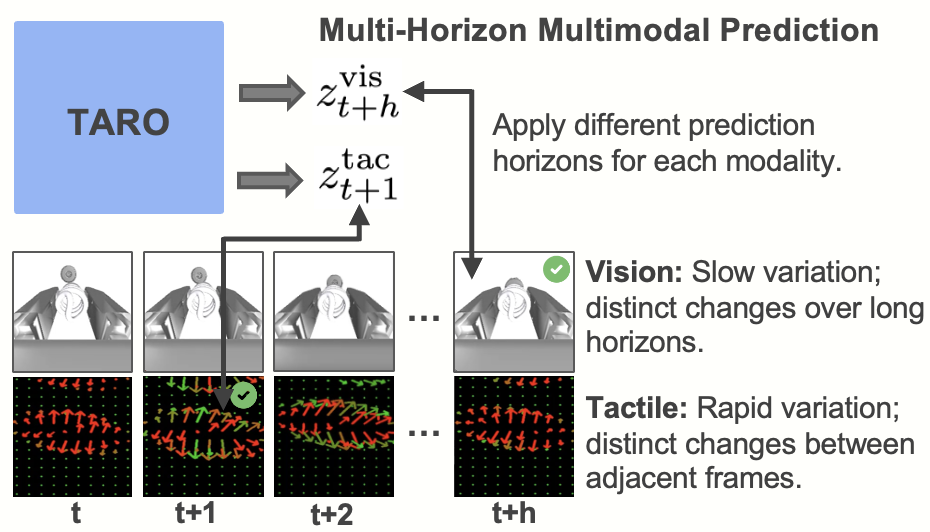
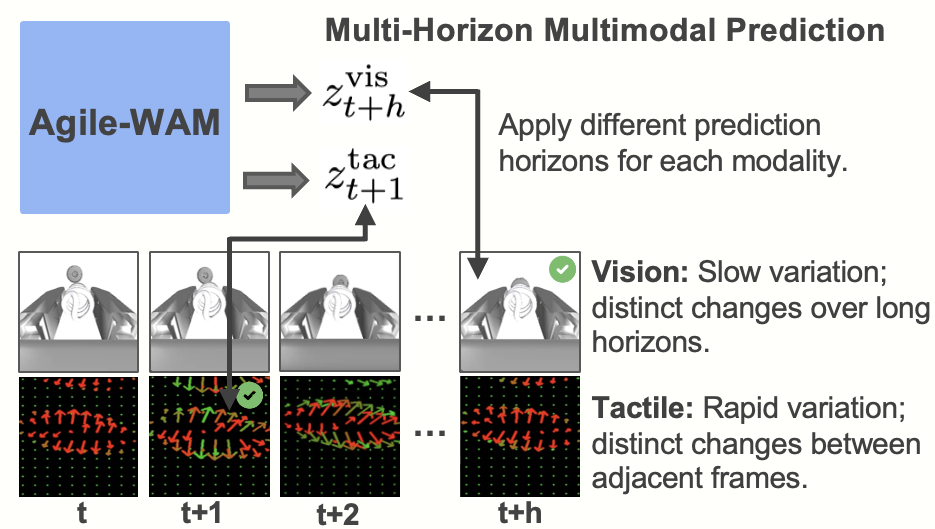
Rename project to Agile-WAM and update figures

Changed region(s): [[0.0, 0.0302, 0.9978, 0.9981], [0.343, 0.0302, 0.9667, 0.0907]]

diff --git a/anonymous/index.html b/anonymous/index.html
@@ -4,10 +4,10 @@
 <head>
   <meta charset="utf-8">
   <meta name="robots" content="noindex, nofollow, noarchive, nosnippet">
-  <meta name="description" content="TARO: An Agile Tactile World Action Model for Contact-Rich Robot Control.">
-  <meta name="keywords" content="TARO, tactile world action model, visuotactile, robot learning">
+  <meta name="description" content="Agile-WAM: An Agile Tactile World Action Model for Contact-Rich Robot Control.">
+  <meta name="keywords" content="Agile-WAM, tactile world action model, visuotactile, robot learning">
   <meta name="viewport" content="width=device-width, initial-scale=1">
-  <title>TARO: An Agile Tactile World Action Model for Contact-Rich Robot Control</title>
+  <title>Agile-WAM: An Agile Tactile World Action Model for Contact-Rich Robot Control</title>
 
   <link href="https://fonts.googleapis.com/css?family=Google+Sans|Noto+Sans|Castoro" rel="stylesheet">
   <link rel="stylesheet" href="../static/css/bulma.min.css">
@@ -22,8 +22,7 @@
         <div class="columns is-centered">
           <div class="column has-text-centered">
             <h1 class="title is-1 publication-title">
-              <span class="title-brand"><img class="title-brand-icon"
-                   src="../static/images/taro-icon-svg-download-png-2378925.webp" alt="">TARO:</span>
+              <span class="title-brand">Agile-WAM:</span>
               An Agile Tactile World Action Model for Contact-Rich Robot Control
             </h1>
 
@@ -94,19 +93,19 @@
               observations, but contact-rich manipulation requires physical information that vision alone
               cannot reliably capture. Recent tactile WAMs often rely on large pretrained generative
               backbones, which limit their inference efficiency and flexible deployment. To address this
-              limitation, we present <span class="taro-name">TARO</span>, an agile
-              <u>ta</u>ctile Wo<u>r</u>ld Action M<u>o</u>del for contact-rich robot control.
-              <span class="taro-name">TARO</span> encodes visual and tactile observations into a shared latent
-              that serves as the source of a compact conditioning-free flow-matching process, which jointly
-              generates latent representations of an action chunk and future visual and tactile observations.
+              limitation, we present <span class="taro-name">agile-WAM</span>, an agile tactile World Action
+              Model for contact-rich robot control. <span class="taro-name">agile-WAM</span> encodes visual and
+              tactile observations into a shared latent that serves as the source of a direct
+              vision-tactile-to-action flow-matching process, which can jointly generate latent
+              representations of an action chunk and future visual and tactile latent.
               A key observation is that vision and tactile signals evolve at inherently different timescales:
               adjacent visual frames are often highly similar, whereas tactile
               signals can change abruptly upon contact. We therefore introduce multi-horizon multimodal
-              prediction in <span class="taro-name">TARO</span>, which provides supervision for visual latent
+              prediction in <span class="taro-name">agile-WAM</span>, which provides supervision for visual latent
               at a larger temporal offset while predicting the adjacent tactile latent to preserve fine-grained
               contact dynamics.
               Across nine simulated and five real-world contact-rich manipulation tasks,
-              <span class="taro-name">TARO</span> demonstrates strong and robust control performance, achieving
+              <span class="taro-name">agile-WAM</span> demonstrates strong and robust control performance, achieving
               a 6.8% relative improvement in simulation success rate over the strongest baseline while
               supporting a control frequency of 96.6&nbsp;Hz. These results demonstrate that multimodal WAM
               can be achieved with an agile architecture suitable for precise and high-frequency robot control.
@@ -123,8 +122,8 @@
       <figure class="method-figure">
         <div class="framework-container">
           <object class="framework-diagram" data="../static/images/taro_framework.svg" type="image/svg+xml"
-                  aria-label="Animated diagram of the TARO framework">
-            TARO framework: visual and tactile observations are encoded and fused into a shared
+                  aria-label="Animated diagram of the agile-WAM framework">
+            agile-WAM framework: visual and tactile observations are encoded and fused into a shared
             source latent, transformed through flow matching, and decoded or supervised as action,
             future visual, and future tactile targets.
           </object>
@@ -132,7 +131,7 @@
         <img class="tactile-framework-diagram" src="../static/images/tac_framework.png"
              alt="Tactile framework architecture">
         <figcaption>
-          TARO jointly generates actions and multimodal future representations through a compact flow-matching backbone.
+          agile-WAM jointly generates actions and multimodal future representations through a compact flow-matching backbone.
         </figcaption>
       </figure>
       <figure class="method-figure multi-horizon-figure">
@@ -151,8 +150,8 @@
       <h2 class="title is-3 has-text-centered">Corrective Behaviors</h2>
       <div class="content has-text-justified corrective-copy">
         <p>
-          TARO effectively learns and executes corrective behaviors in real-world experiments.
-          When the initial attempt fails to align the object with the target position, TARO can
+          agile-WAM effectively learns and executes corrective behaviors in real-world experiments.
+          When the initial attempt fails to align the object with the target position, agile-WAM can
           still recover under an obstructed visual view by gently maintaining contact with the
           surrounding surface and using tactile feedback to search for the correct insertion
           position. This recovery capability substantially improves the success rate over
@@ -187,7 +186,7 @@
       <h2 class="title is-3 has-text-centered">Experimental Results</h2>
       <div class="content results-copy">
         <p>
-          We evaluate <span class="taro-name">TARO</span> on nine simulated and five real-world contact-rich
+          We evaluate <span class="taro-name">agile-WAM</span> on nine simulated and five real-world contact-rich
           manipulation tasks. Across these tasks, we investigate its performance and computational efficiency.
         </p>
       </div>
@@ -205,7 +204,7 @@
       </figure>
       <div class="content ablation-copy">
         <p>
-          <strong>Ablation studies of TARO.</strong>
+          <strong>Ablation studies of agile-WAM.</strong>
           (a) Joint action&ndash;future modeling improves performance beyond the gain from increased latent capacity.
           (b) Jointly modeling both future visual and tactile observations provides the strongest performance under multimodal input.
           (c) Multi-horizon multimodal prediction better matches the different temporal characteristics of vision and tactile signals.
@@ -254,8 +253,8 @@
   <section class="section" id="BibTeX">
     <div class="container is-max-desktop content">
       <h2 class="title">BibTeX</h2>
-      <pre><code>@article{taro,
-  title  = {TARO: An Agile Tactile World Action Model for Contact-Rich Robot Control},
+      <pre><code>@article{agile-wam,
+  title  = {Agile-WAM: An Agile Tactile World Action Model for Contact-Rich Robot Control},
   author = {Anonymous Authors},
   year   = {20XX}
 }</code></pre>

diff --git a/index.html b/index.html
@@ -2,10 +2,10 @@
 <html lang="en">
 <head>
   <meta charset="utf-8">
-  <meta name="description" content="TARO: An Agile Tactile World Action Model for Contact-Rich Robot Control.">
-  <meta name="keywords" content="TARO, tactile world action model, visuotactile, robot learning">
+  <meta name="description" content="Agile-WAM: An Agile Tactile World Action Model for Contact-Rich Robot Control.">
+  <meta name="keywords" content="Agile-WAM, tactile world action model, visuotactile, robot learning">
   <meta name="viewport" content="width=device-width, initial-scale=1">
-  <title>TARO: An Agile Tactile World Action Model for Contact-Rich Robot Control</title>
+  <title>Agile-WAM: An Agile Tactile World Action Model for Contact-Rich Robot Control</title>
 
   <link href="https://fonts.googleapis.com/css?family=Google+Sans|Noto+Sans|Castoro" rel="stylesheet">
   <link rel="stylesheet" href="./static/css/bulma.min.css">
@@ -20,8 +20,7 @@
         <div class="columns is-centered">
           <div class="column has-text-centered">
             <h1 class="title is-1 publication-title">
-              <span class="title-brand"><img class="title-brand-icon"
-                   src="./static/images/taro-icon-svg-download-png-2378925.webp" alt="">TARO:</span>
+              <span class="title-brand">Agile-WAM:</span>
               An Agile Tactile World Action Model for Contact-Rich Robot Control
             </h1>
 
@@ -109,19 +108,19 @@
               observations, but contact-rich manipulation requires physical information that vision alone
               cannot reliably capture. Recent tactile WAMs often rely on large pretrained generative
               backbones, which limit their inference efficiency and flexible deployment. To address this
-              limitation, we present <span class="taro-name">TARO</span>, an agile
-              <u>ta</u>ctile Wo<u>r</u>ld Action M<u>o</u>del for contact-rich robot control.
-              <span class="taro-name">TARO</span> encodes visual and tactile observations into a shared latent
-              that serves as the source of a compact conditioning-free flow-matching process, which jointly
-              generates latent representations of an action chunk and future visual and tactile observations.
+              limitation, we present Agile-WAM, an agile tactile World Action
+              Model for contact-rich robot control. Agile-WAM encodes visual and
+              tactile observations into a shared latent that serves as the source of a direct
+              vision-tactile-to-action flow-matching process, which can jointly generate latent
+              representations of an action chunk and future visual and tactile latent.
               A key observation is that vision and tactile signals evolve at inherently different timescales:
               adjacent visual frames are often highly similar, whereas tactile
               signals can change abruptly upon contact. We therefore introduce multi-horizon multimodal
-              prediction in <span class="taro-name">TARO</span>, which provides supervision for visual latent
+              prediction in Agile-WAM, which provides supervision for visual latent
               at a larger temporal offset while predicting the adjacent tactile latent to preserve fine-grained
               contact dynamics.
               Across nine simulated and five real-world contact-rich manipulation tasks,
-              <span class="taro-name">TARO</span> demonstrates strong and robust control performance, achieving
+              Agile-WAM demonstrates strong and robust control performance, achieving
               a 6.8% relative improvement in simulation success rate over the strongest baseline while
               supporting a control frequency of 96.6&nbsp;Hz. These results demonstrate that multimodal WAM
               can be achieved with an agile architecture suitable for precise and high-frequency robot control.
@@ -138,8 +137,8 @@
       <figure class="method-figure">
         <div class="framework-container">
           <object class="framework-diagram" data="./static/images/taro_framework.svg" type="image/svg+xml"
-                  aria-label="Animated diagram of the TARO framework">
-            TARO framework: visual and tactile observations are encoded and fused into a shared
+                  aria-label="Animated diagram of the Agile-WAM framework">
+            Agile-WAM framework: visual and tactile observations are encoded and fused into a shared
             source latent, transformed through flow matching, and decoded or supervised as action,
             future visual, and future tactile targets.
           </object>
@@ -147,7 +146,7 @@
         <img class="tactile-framework-diagram" src="./static/images/tac_framework.png"
              alt="Tactile framework architecture">
         <figcaption>
-          TARO jointly generates actions and multimodal future representations through a compact flow-matching backbone.
+          Agile-WAM jointly generates actions and multimodal future representations through a compact flow-matching backbone.
         </figcaption>
       </figure>
       <figure class="method-figure multi-horizon-figure">
@@ -166,8 +165,8 @@
       <h2 class="title is-3 has-text-centered">Corrective Behaviors</h2>
       <div class="content has-text-justified corrective-copy">
         <p>
-          TARO effectively learns and executes corrective behaviors in real-world experiments.
-          When the initial attempt fails to align the object with the target position, TARO can
+          Agile-WAM effectively learns and executes corrective behaviors in real-world experiments.
+          When the initial attempt fails to align the object with the target position, Agile-WAM can
           still recover under an obstructed visual view by gently maintaining contact with the
           surrounding surface and using tactile feedback to search for the correct insertion
           position. This recovery capability substantially improves the success rate over
@@ -202,7 +201,7 @@
       <h2 class="title is-3 has-text-centered">Experimental Results</h2>
       <div class="content results-copy">
         <p>
-          We evaluate <span class="taro-name">TARO</span> on nine simulated and five real-world contact-rich
+          We evaluate Agile-WAM on nine simulated and five real-world contact-rich
           manipulation tasks. Across these tasks, we investigate its performance and computational efficiency.
         </p>
       </div>
@@ -220,7 +219,7 @@
       </figure>
       <div class="content ablation-copy">
         <p>
-          <strong>Ablation studies of TARO.</strong>
+          <strong>Ablation studies of Agile-WAM.</strong>
           (a) Joint action&ndash;future modeling improves performance beyond the gain from increased latent capacity.
           (b) Jointly modeling both future visual and tactile observations provides the strongest performance under multimodal input.
           (c) Multi-horizon multimodal prediction better matches the different temporal characteristics of vision and tactile signals.
@@ -269,8 +268,8 @@
   <section class="section" id="BibTeX">
     <div class="container is-max-desktop content">
       <h2 class="title">BibTeX</h2>
-      <pre><code>@article{taro,
-  title  = {TARO: An Agile Tactile World Action Model for Contact-Rich Robot Control},
+      <pre><code>@article{agile-wam,
+  title  = {Agile-WAM: An Agile Tactile World Action Model for Contact-Rich Robot Control},
   author = {Zhou, Hanchu and Lynch, Brendan and Goyal, Raman and Gao, Dechen and Kasap, Begum and Zhao, Boqi and Zhang, Junshan},
   year   = {20XX}
 }</code></pre>

diff --git a/scripts/build-anonymous.rb b/scripts/build-anonymous.rb
@@ -36,16 +36,16 @@ replace_once!(
 
 replace_once!(
   html,
-  /              <span class="link-block">\n                <a href="https:\/\/github\.com\/[^"]+".*?              <\/span>\n/m,
+  /            <div class="publication-links">.*?            <\/div>\n/m,
   "",
-  "identifying code link"
+  "publication links block"
 )
 
 replace_once!(
   html,
-  /  author = \{[^\n]+\},/,
-  "  author = {Anonymous Authors},",
-  "BibTeX author field"
+  /  <section class="section" id="BibTeX">.*?  <\/section>\n/m,
+  "",
+  "BibTeX section"
 )
 
 html.gsub!("./static/", "../static/")
